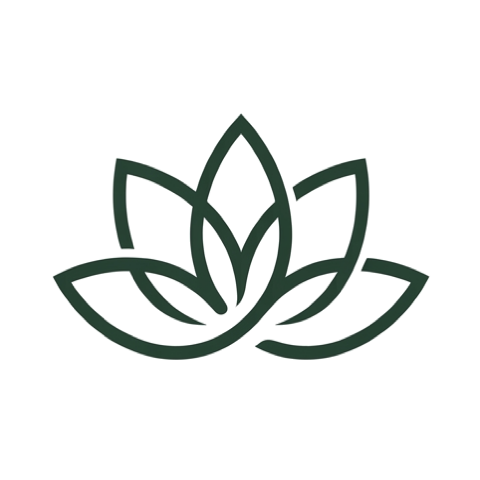
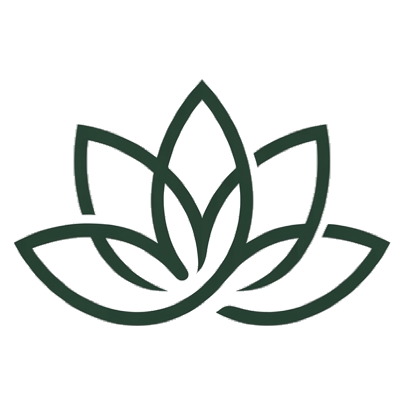
Make nav lotus bigger: tighten source canvas and bump display to 80px
Two changes that compound:

  - The supplied 480x480 lotus PNG had ~50% empty padding inside
    its canvas, so the visible lotus at any display size was half what
    it could be. Re-cropped tightly: 405x405 with the lotus filling
    94% of the canvas. The lotus shape itself is unchanged.
  - Display size in the nav: 60 -> 80px desktop, 48 -> 60px tablet.

Net result: the visible lotus mark roughly doubles in size in the nav
without making the header noticeably taller.

Changed region(s): [[0.0296, 0.1778, 0.9778, 0.8296]]

diff --git a/css/styles.css b/css/styles.css
@@ -66,13 +66,13 @@ nav {
 }
 
 .logo-icon {
-  width: 60px;
-  height: 60px;
+  width: 80px;
+  height: 80px;
   object-fit: contain;
 }
 
 @media (max-width: 900px) {
-  .logo-icon { width: 48px; height: 48px; }
+  .logo-icon { width: 60px; height: 60px; }
 }
 
 .nav-brand-text {
